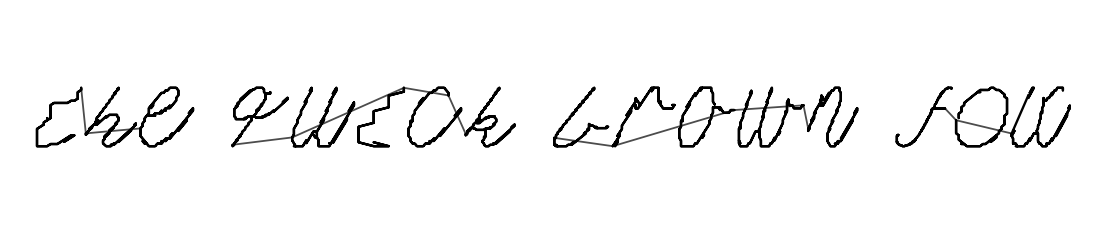
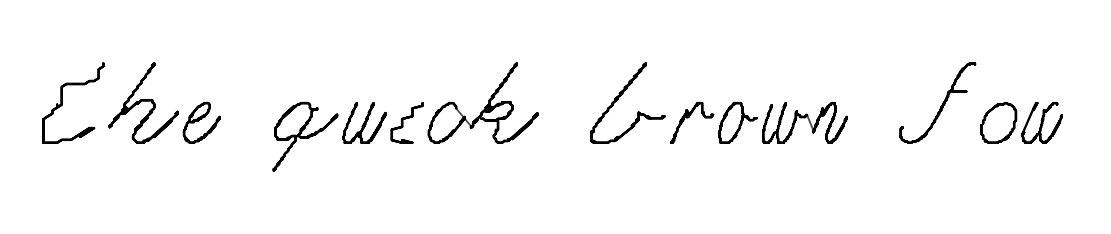
N4 render fidelity: baseline + ascender/descender heights + distance-guarded joins

diff --git a/ocr/experiments/_font_render.py b/ocr/experiments/_font_render.py
@@ -6,11 +6,10 @@ stamped (the "dynamic" in dynamic font), and draw a join between consecutive gly
 ligature). This is the font BACKEND / generation step (roadmap N4-N5): type text, get it in the
 writer's hand.
 
-Prototype limitations (honest): glyphs were bbox-normalized in harvesting, so per-letter width
-and ascender/descender height are lost -- every glyph renders in a unit cell (even advance, even
-height). Real kerning/baseline needs those preserved upstream. And output quality is gated by
-the harvested glyphs (currently rough -- see WORKLOG). What this proves: the variant-rotation +
-placement + join machinery works end-to-end.
+Glyphs are aspect-preserved, placed on a real baseline with a label-based ascender/descender/
+x-height heuristic (`glyph_box`); joins only drawn between nearby endpoints. Output quality is
+still gated by the input glyphs (rough from diary cuts -- see WORKLOG; clean on font-traced
+letters -- see `font_backend_demo.png`).
 
     python -m ocr.experiments._font_render --variants variants.json --text "the baby" --out out.png
 """
@@ -35,8 +34,23 @@ def variant_sequence(variants: dict[str, list], text: str) -> list[tuple[str, in
     return out
 
 
+_ASCENDERS = set("bdfhklt")
+_DESCENDERS = set("gjpqy")
+
+
+def glyph_box(key: str, xheight: float = 0.5, ascent: float = 1.0, descent: float = 0.35):
+    """(top, bottom) plot-y for a letter on a baseline at y=0: ascenders/capitals rise to
+    ``ascent``, descenders drop to ``-descent``, the rest fill the x-height. A cheap, dep-free
+    typography heuristic — no per-glyph baseline metadata needed."""
+    if key in _ASCENDERS or key.isupper():
+        return ascent, 0.0
+    if key in _DESCENDERS:
+        return xheight, -descent
+    return xheight, 0.0
+
+
 def render_text(variants: dict[str, list], text: str, out_path: str, join: bool = True) -> str:
-    """Render ``text`` in the harvested hand to ``out_path``. Returns the path."""
+    """Render ``text`` in the harvested hand to ``out_path`` on a real baseline. Returns path."""
     import matplotlib
 
     matplotlib.use("Agg")
@@ -54,16 +68,24 @@ def render_text(variants: dict[str, list], text: str, out_path: str, join: bool 
             x_off += space
             prev_end = None
             continue
-        a = np.array(variants[key][idx], float)
-        gx = a[:, 0] + x_off
-        gy = -a[:, 1]
-        if join and prev_end is not None:  # cursive ligature to this glyph's start
+        a = np.array(variants[key][idx], float)  # x in [0,aspect], y in [0,1] (0 top, 1 bottom)
+        top, bot = glyph_box(key)
+        sf = top - bot  # scale height to the letter's band (x scaled too -> aspect preserved)
+        gx = a[:, 0] * sf + x_off
+        gy = top - a[:, 1] * sf  # glyph-top -> top, glyph-bottom -> bot (baseline at y=0)
+        # cursive ligature, but only when endpoints are actually close (traced glyphs don't
+        # start/end at clean entry/exit points, so a far join is just a stray diagonal)
+        if (
+            join
+            and prev_end is not None
+            and np.hypot(gx[0] - prev_end[0], gy[0] - prev_end[1]) < 0.3
+        ):
             ax.plot(
                 [prev_end[0], gx[0]], [prev_end[1], gy[0]], "-", color="black", lw=1.0, alpha=0.7
             )
         ax.plot(gx, gy, "-", color="black", lw=1.3, solid_capstyle="round")
         prev_end = (gx[-1], gy[-1])
-        x_off += float(a[:, 0].max()) + intra_gap  # advance by this glyph's actual width
+        x_off += float(a[:, 0].max()) * sf + intra_gap  # advance by this glyph's actual width
     ax.set_aspect("equal")
     ax.axis("off")
     ax.set_xlim(-0.3, x_off + 0.3)

diff --git a/tests/test_font_render.py b/tests/test_font_render.py
@@ -23,3 +23,16 @@ def test_render_text_writes_file(tmp_path):
     out = tmp_path / "r.png"
     fr.render_text({"a": [_G, _G]}, "aa", str(out))
     assert out.exists() and out.stat().st_size > 0
+
+
+def test_glyph_box_ascender_taller_than_xheight():
+    assert fr.glyph_box("l")[0] > fr.glyph_box("a")[0]
+
+
+def test_glyph_box_descender_drops_below_baseline():
+    assert fr.glyph_box("g")[1] < 0
+    assert fr.glyph_box("a")[1] == 0.0
+
+
+def test_glyph_box_capital_rises_to_ascent():
+    assert fr.glyph_box("A")[0] == fr.glyph_box("l")[0]

diff --git a/WORKLOG.md b/WORKLOG.md
@@ -9,6 +9,17 @@ Newest entries first. Dates are absolute.
 
 ---
 
+## 2026-06-28 (autonomous) — #2 render fidelity (baseline + ascenders/descenders)
+
+`_font_render.glyph_box`: a dep-free, label-based typography heuristic — ascenders (bdfhklt) +
+capitals rise to full ascent, descenders (gjpqy) drop below a baseline at y=0, the rest fill the
+x-height; glyphs scaled to their band (aspect preserved). Joins now only drawn between nearby
+endpoints (traced glyphs don't start/end at clean entry/exit points, so far joins were stray
+diagonals). The clean font-traced demo now reads as cursive on a real baseline
+(`font_backend_demo.png` updated). No upstream plumbing / no per-glyph baseline metadata needed.
+
+---
+
 ## 2026-06-28 (autonomous) — #1 real font export (SVG glyph assets)
 
 `_font_export.py`: variant library → `paths.json` (char → SVG path strings) + `specimen.svg`
